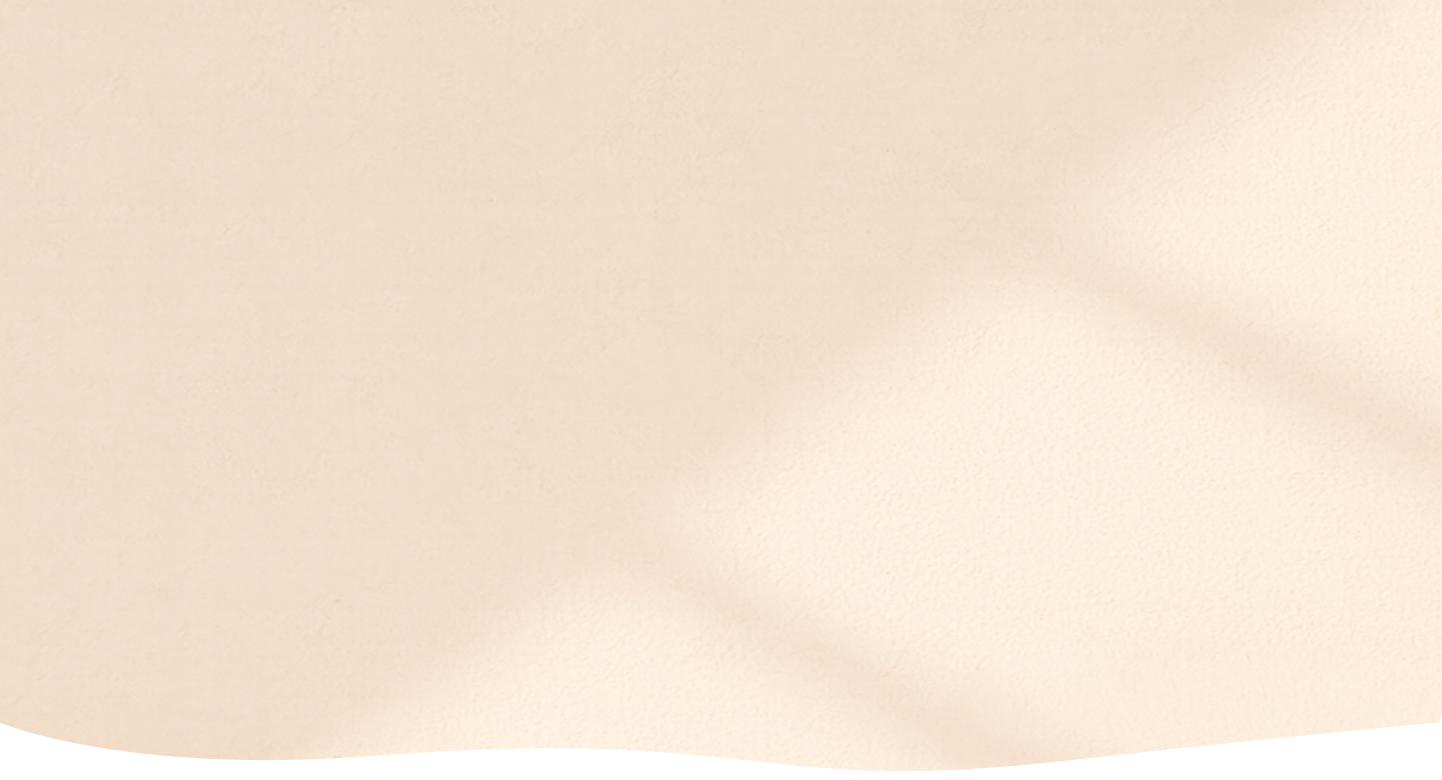
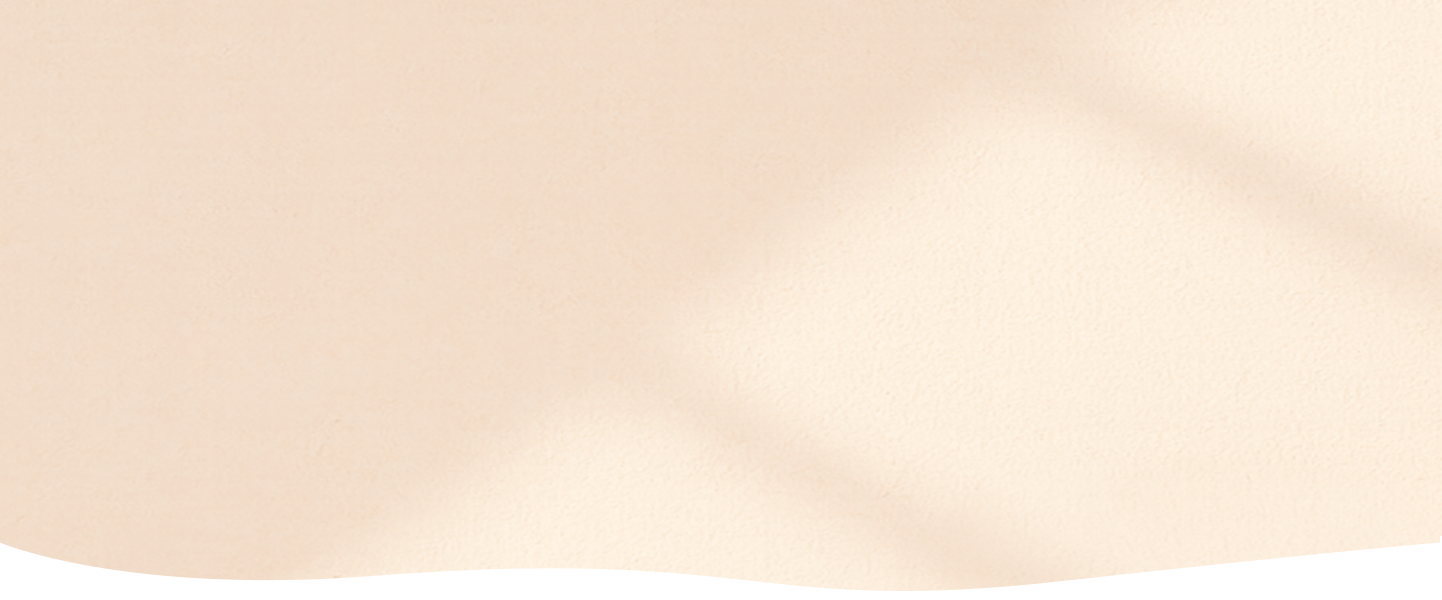
update

diff --git a/public/asset/custome-css/style.css b/public/asset/custome-css/style.css
@@ -125,6 +125,8 @@ b {
     background-position: center center;
     background-repeat: no-repeat;
     background-attachment: scroll;
+    padding: 0px;
+    margin: 0px;
 
     /* dwd */
     position: relative;
@@ -166,7 +168,7 @@ b {
     .hero-section {
         background-size: cover !important;
         background-position: center center !important;
-        min-height: 100vh !important;
+        min-height: 80vh !important;
         padding: 0px;
         margin: 0PX;
     }   
@@ -206,7 +208,7 @@ b {
     .hero-section {
         align-items: flex-start !important;
         padding-top: 80px !important;
-        min-height: 100vh !important;
+        min-height: 80vh !important;
         margin-bottom: 10px;
         background-size: cover !important;
         background-position: center center !important;
@@ -1777,6 +1779,8 @@ footer ul li a:hover {
         padding-top: 20px;
         background-size: cover;
         background-position: center center;
+        padding: 0px;
+        margin: 0px;
     }
 
     .hero-section .container {
@@ -1851,16 +1855,18 @@ footer ul li a:hover {
     .hero-section {
         background-size: 100% 100% !important;
         background-position: center center !important;
-        min-height: 100vh !important;
+        min-height: 80vh !important;
+        padding: 0px;
+        margin: 0px;
     }
 }
 
 /* Hero Section Standard Laptop (1280px - 1365px) */
 @media (min-width: 1280px) and (max-width: 1365px) {
     .hero-section {
-        background-size: 100% 100% !important;
+       
         background-position: center center !important;
-        min-height: 100vh !important;
+        min-height: 80vh !important;
     }
 }
 
